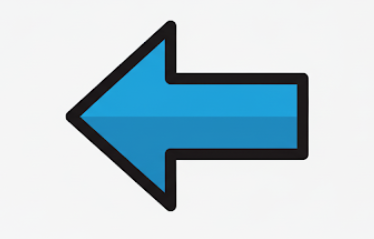
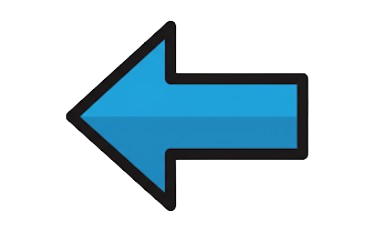
css tela 3 luisa

diff --git a/jogo codesign/css/style_tela3luisa.css b/jogo codesign/css/style_tela3luisa.css
@@ -1,0 +1,139 @@
+:root{
+  --matiz-1:#FFFBE6;
+  --matiz-2:#00AAFF;
+  --matiz-2-dark:#0080B3;
+  --matiz-3:#00B300;
+  --black:#000000;
+  --white:#ffffff;
+  --nav-btn:3.5rem;
+  font-size:100%;
+}
+
+*{box-sizing:border-box}
+img{display:block;max-width:100%;height:auto}
+html,body{height:100dvh;overflow:hidden}
+
+body.estudar{
+  margin:0;
+  background:var(--matiz-1);
+  color:var(--black);
+  font-family:"Baloo 2",sans-serif;
+  line-height:1.3;
+  display:flex;
+  flex-direction:column;
+}
+
+.app-header h1{
+  font-family:"Lilita One",sans-serif;
+  font-weight:400;
+  font-size:2.4rem;
+  width:100%;
+  margin:0;
+  padding:0.9rem 1rem;
+  text-align:center;
+  color:var(--white);
+  background:var(--matiz-3);
+  border-bottom-left-radius:1rem;
+  border-bottom-right-radius:1rem;
+}
+
+.content{
+  flex:1;
+  width:100%;
+  position:relative;
+  display:flex;
+  flex-direction:column;
+  align-items:center;
+  justify-content:flex-start;
+  gap:1rem;
+padding: 1rem 1rem calc(var(--nav-btn) + 2rem);
+}
+
+.image-section{
+  width:100%;
+  display:flex;
+  flex-direction:column;
+  align-items:center;
+  gap:1rem;
+}
+
+.image-frame{
+  width:88%;
+  max-width:30rem;
+  padding:0.5rem;
+  border:0.25rem solid var(--matiz-2-dark);
+  border-radius:1.25rem;
+  background:var(--white);
+  box-shadow:0 0.375rem 0 var(--matiz-2),0 0.75rem 1.5rem rgba(0,0,0,.06);
+  display:grid;
+  place-items:center;
+}
+
+.image-frame img{
+  max-width:100%;
+  max-height:20rem;
+  width:auto;
+  height:auto;
+  object-fit:contain;
+  border:0;
+  border-radius:0;
+  padding:0;
+  box-shadow:none;
+  background:transparent;
+}
+
+.word{
+  font-family:"Baloo 2",sans-serif;
+  font-weight:800;
+  font-size:2.2rem;
+  text-align:center;
+  margin:0.5rem 1rem 0.25rem;
+}
+.word::before,
+.word::after{
+  content:"*";
+  margin:0 .5rem;
+  color:var(--black);
+}
+
+.sound-code{
+  width:65%;
+  max-width:22rem;
+  height:auto;
+  object-fit:contain;
+  border:0.25rem solid var(--matiz-2-dark);
+  border-radius:0.75rem;
+  background:var(--white);
+}
+
+.nav-bar{
+  position:absolute;
+  left:0; 
+  right:0; 
+  bottom:3rem;
+  padding:0 1rem;
+  display:flex;
+  align-items:center;
+  justify-content:space-between;
+}
+
+.nav-btn{
+  display:inline-flex;
+  align-items:center;
+  justify-content:center;
+  width:var(--nav-btn);
+  height:var(--nav-btn);
+  border-radius:.875rem;
+  background:var(--matiz-2);
+  border:0.1875rem solid var(--matiz-2-dark);
+  box-shadow:0 0.25rem 0 rgba(0,0,0,.10);
+  text-decoration:none;
+  overflow:hidden;
+}
+
+.nav-btn img{
+  height:70%;
+  width:auto;
+  object-fit:contain;
+  background:transparent;
+}

diff --git a/jogo codesign/tela3_luisa.html b/jogo codesign/tela3_luisa.html
@@ -3,27 +3,29 @@
     <head>
         <title>WeTalk</title>
         <meta charset="UTF-8">
+        <meta name="viewport" content="width=device-width, initial-scale=1" />
+        <link rel="preconnect" href="https://fonts.googleapis.com">
+        <link rel="preconnect" href="https://fonts.gstatic.com" crossorigin>
+        <link href="https://fonts.googleapis.com/css2?family=Lilita+One&family=Baloo+2:wght@400;500;600;700;800&display=swap" rel="stylesheet">
+        <link rel="stylesheet" href="css/reset.css">
+        <link rel="stylesheet" href="css/style_tela3luisa.css">
     </head>
-    <body>
-        <h1>
-            ESTUDAR
-        </h1>
-        <figure>
-            <img src= "img/imagem gato.jpg" >
+    <body class="estudar">
+        <header class="app-header"><h1>ESTUDAR</h1></header>
 
-                <h2>GATO</h2>
+        <main class="content">
+            <section class="image-section">
+            <div class="image-frame">
+                <img src="img/imagem_gato.jpg" alt="Gato">
+            </div>
+            <h2 class="word">GATO</h2>
+            <img class="sound-code" src="img/codigo_de_som.png" alt="Código de som">
+            </section>
 
-            <img src="img/codigo_de_som.png" > 
-
-            <a href="Projeto Cll.html">
-                <img src="img/seta.jpg" >
-            </a>
-            <a href="tela_1_mylena.html">
-                <img src="img/seta_vermelha.png" >
-            </a>
-
-
-        </figure>
-
+            <nav class="nav-bar">
+            <a class="nav-btn" href="Projeto Cll.html"><img src="img/seta_azul.png" alt="Voltar"></a>
+            <a class="nav-btn" href="tela_1_mylena.html"><img src="img/seta_vermelha.png" alt="Avançar"></a>
+            </nav>
+        </main>
     </body>
 </html>
